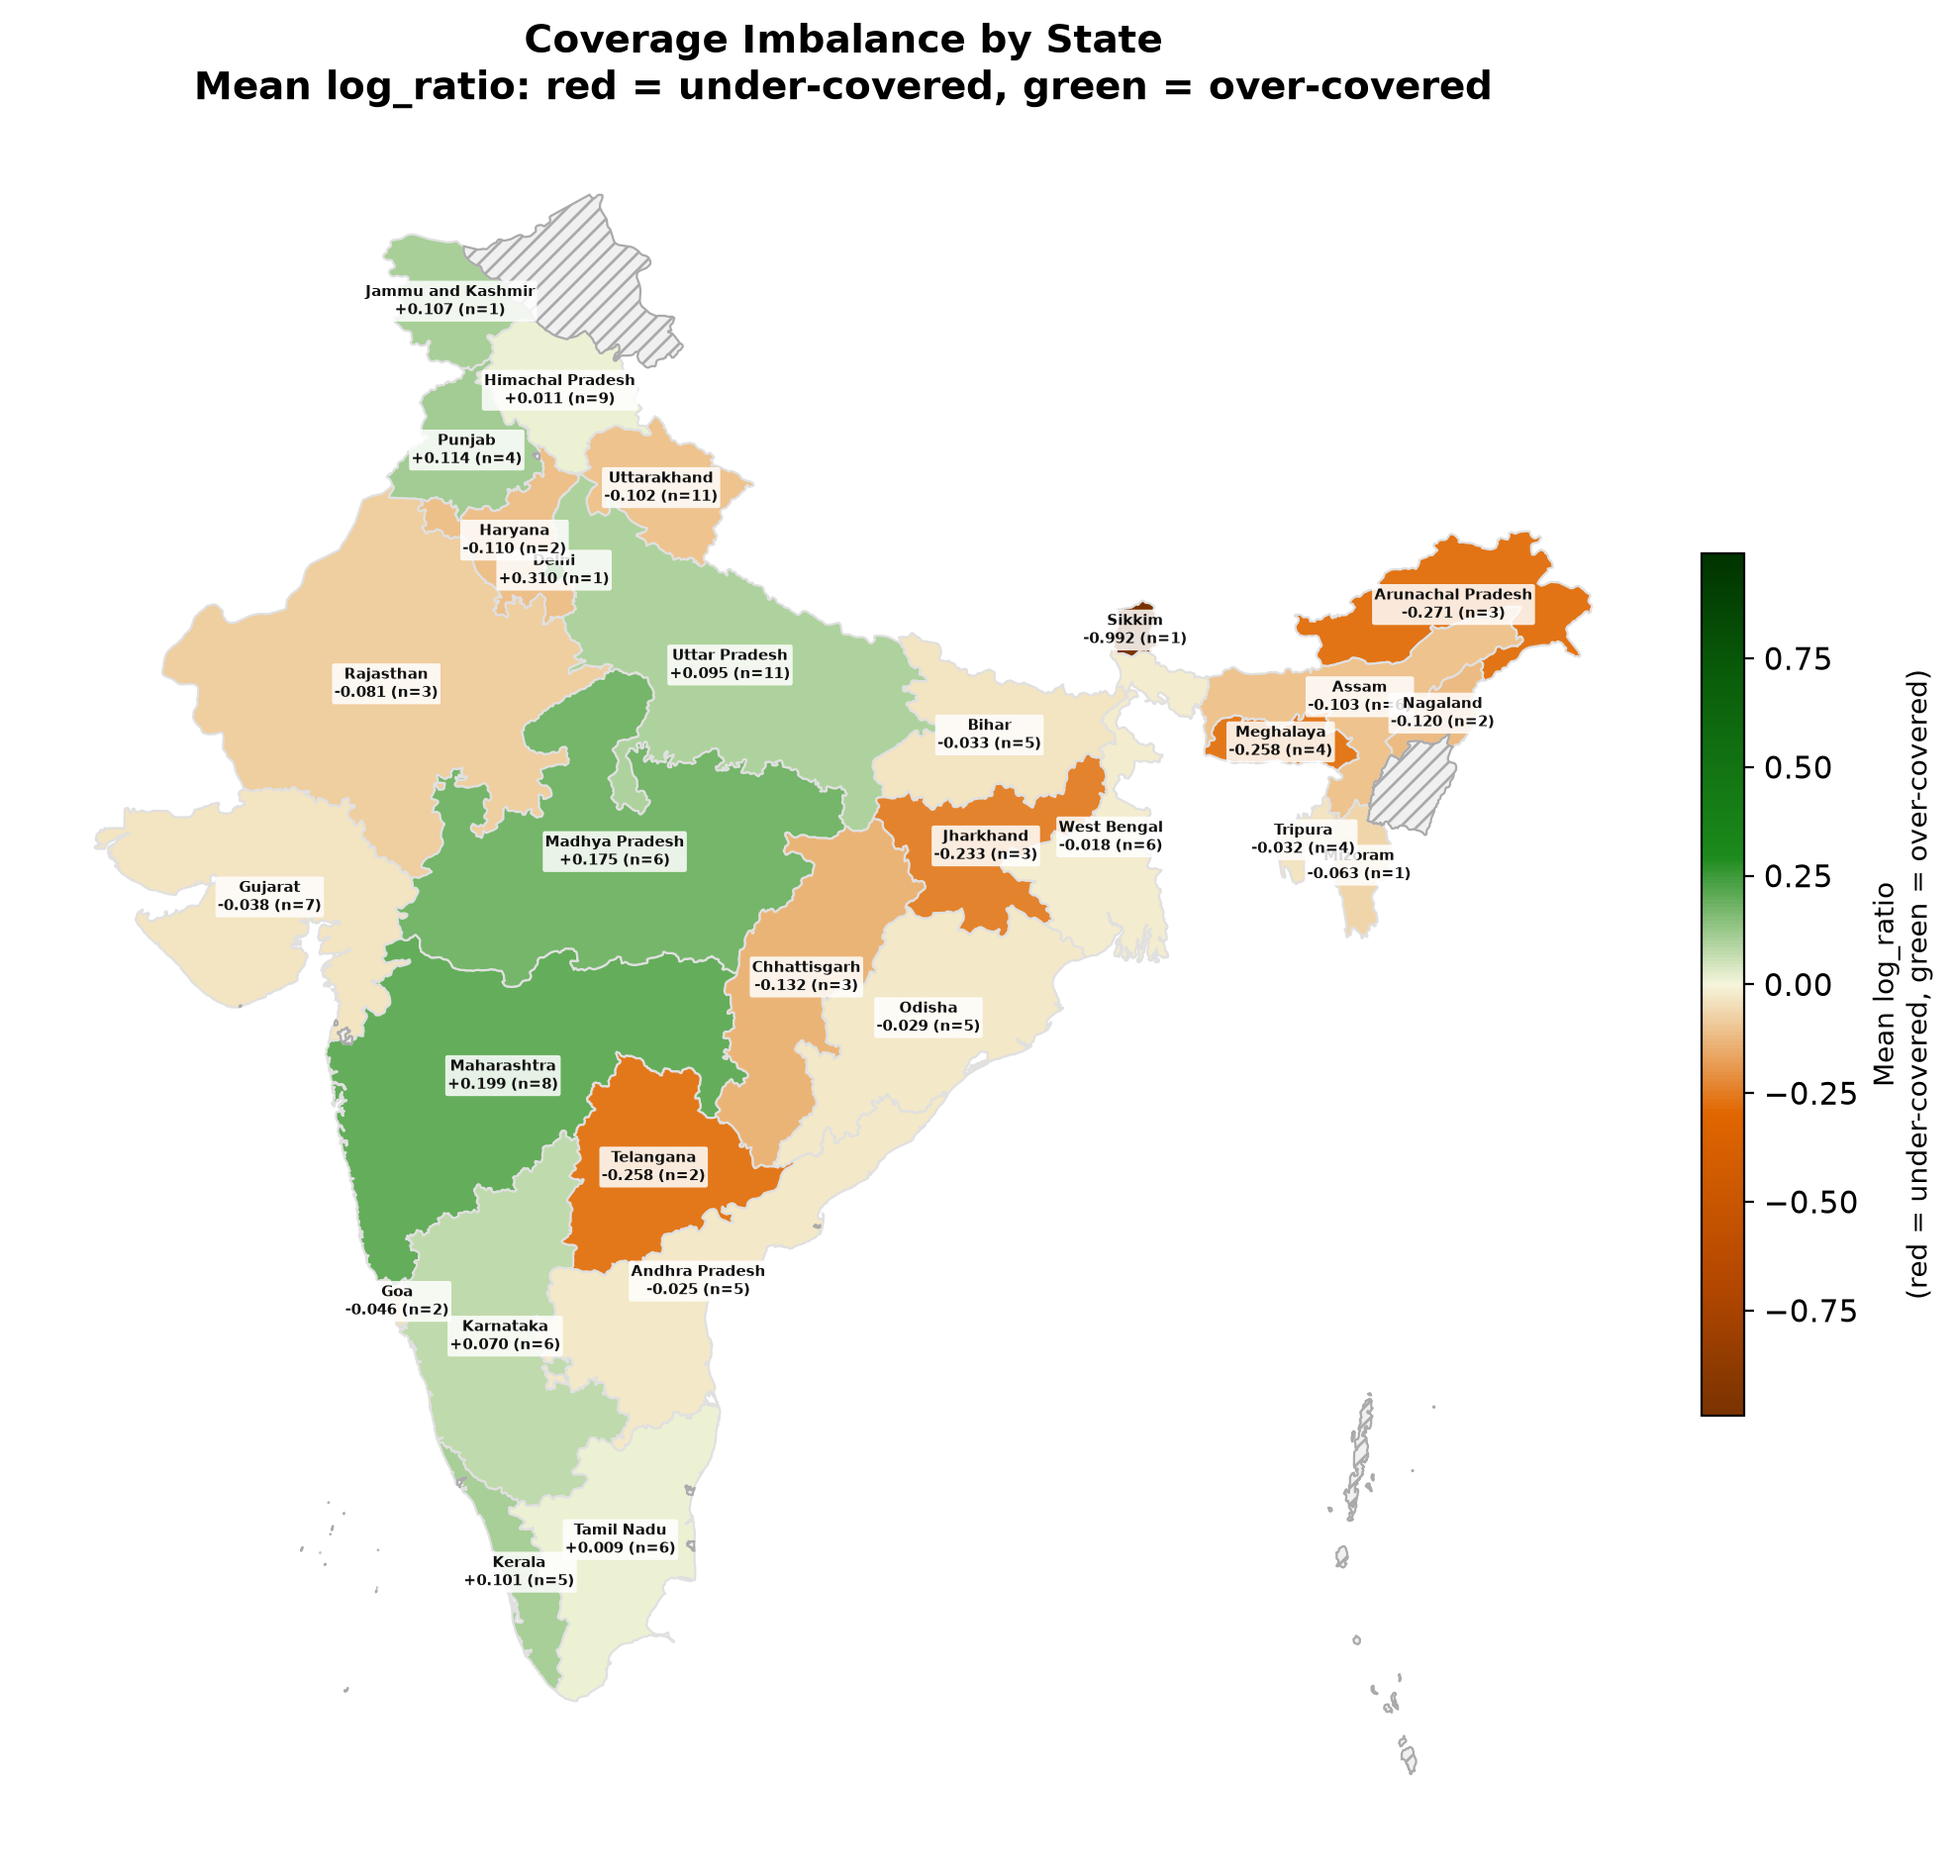
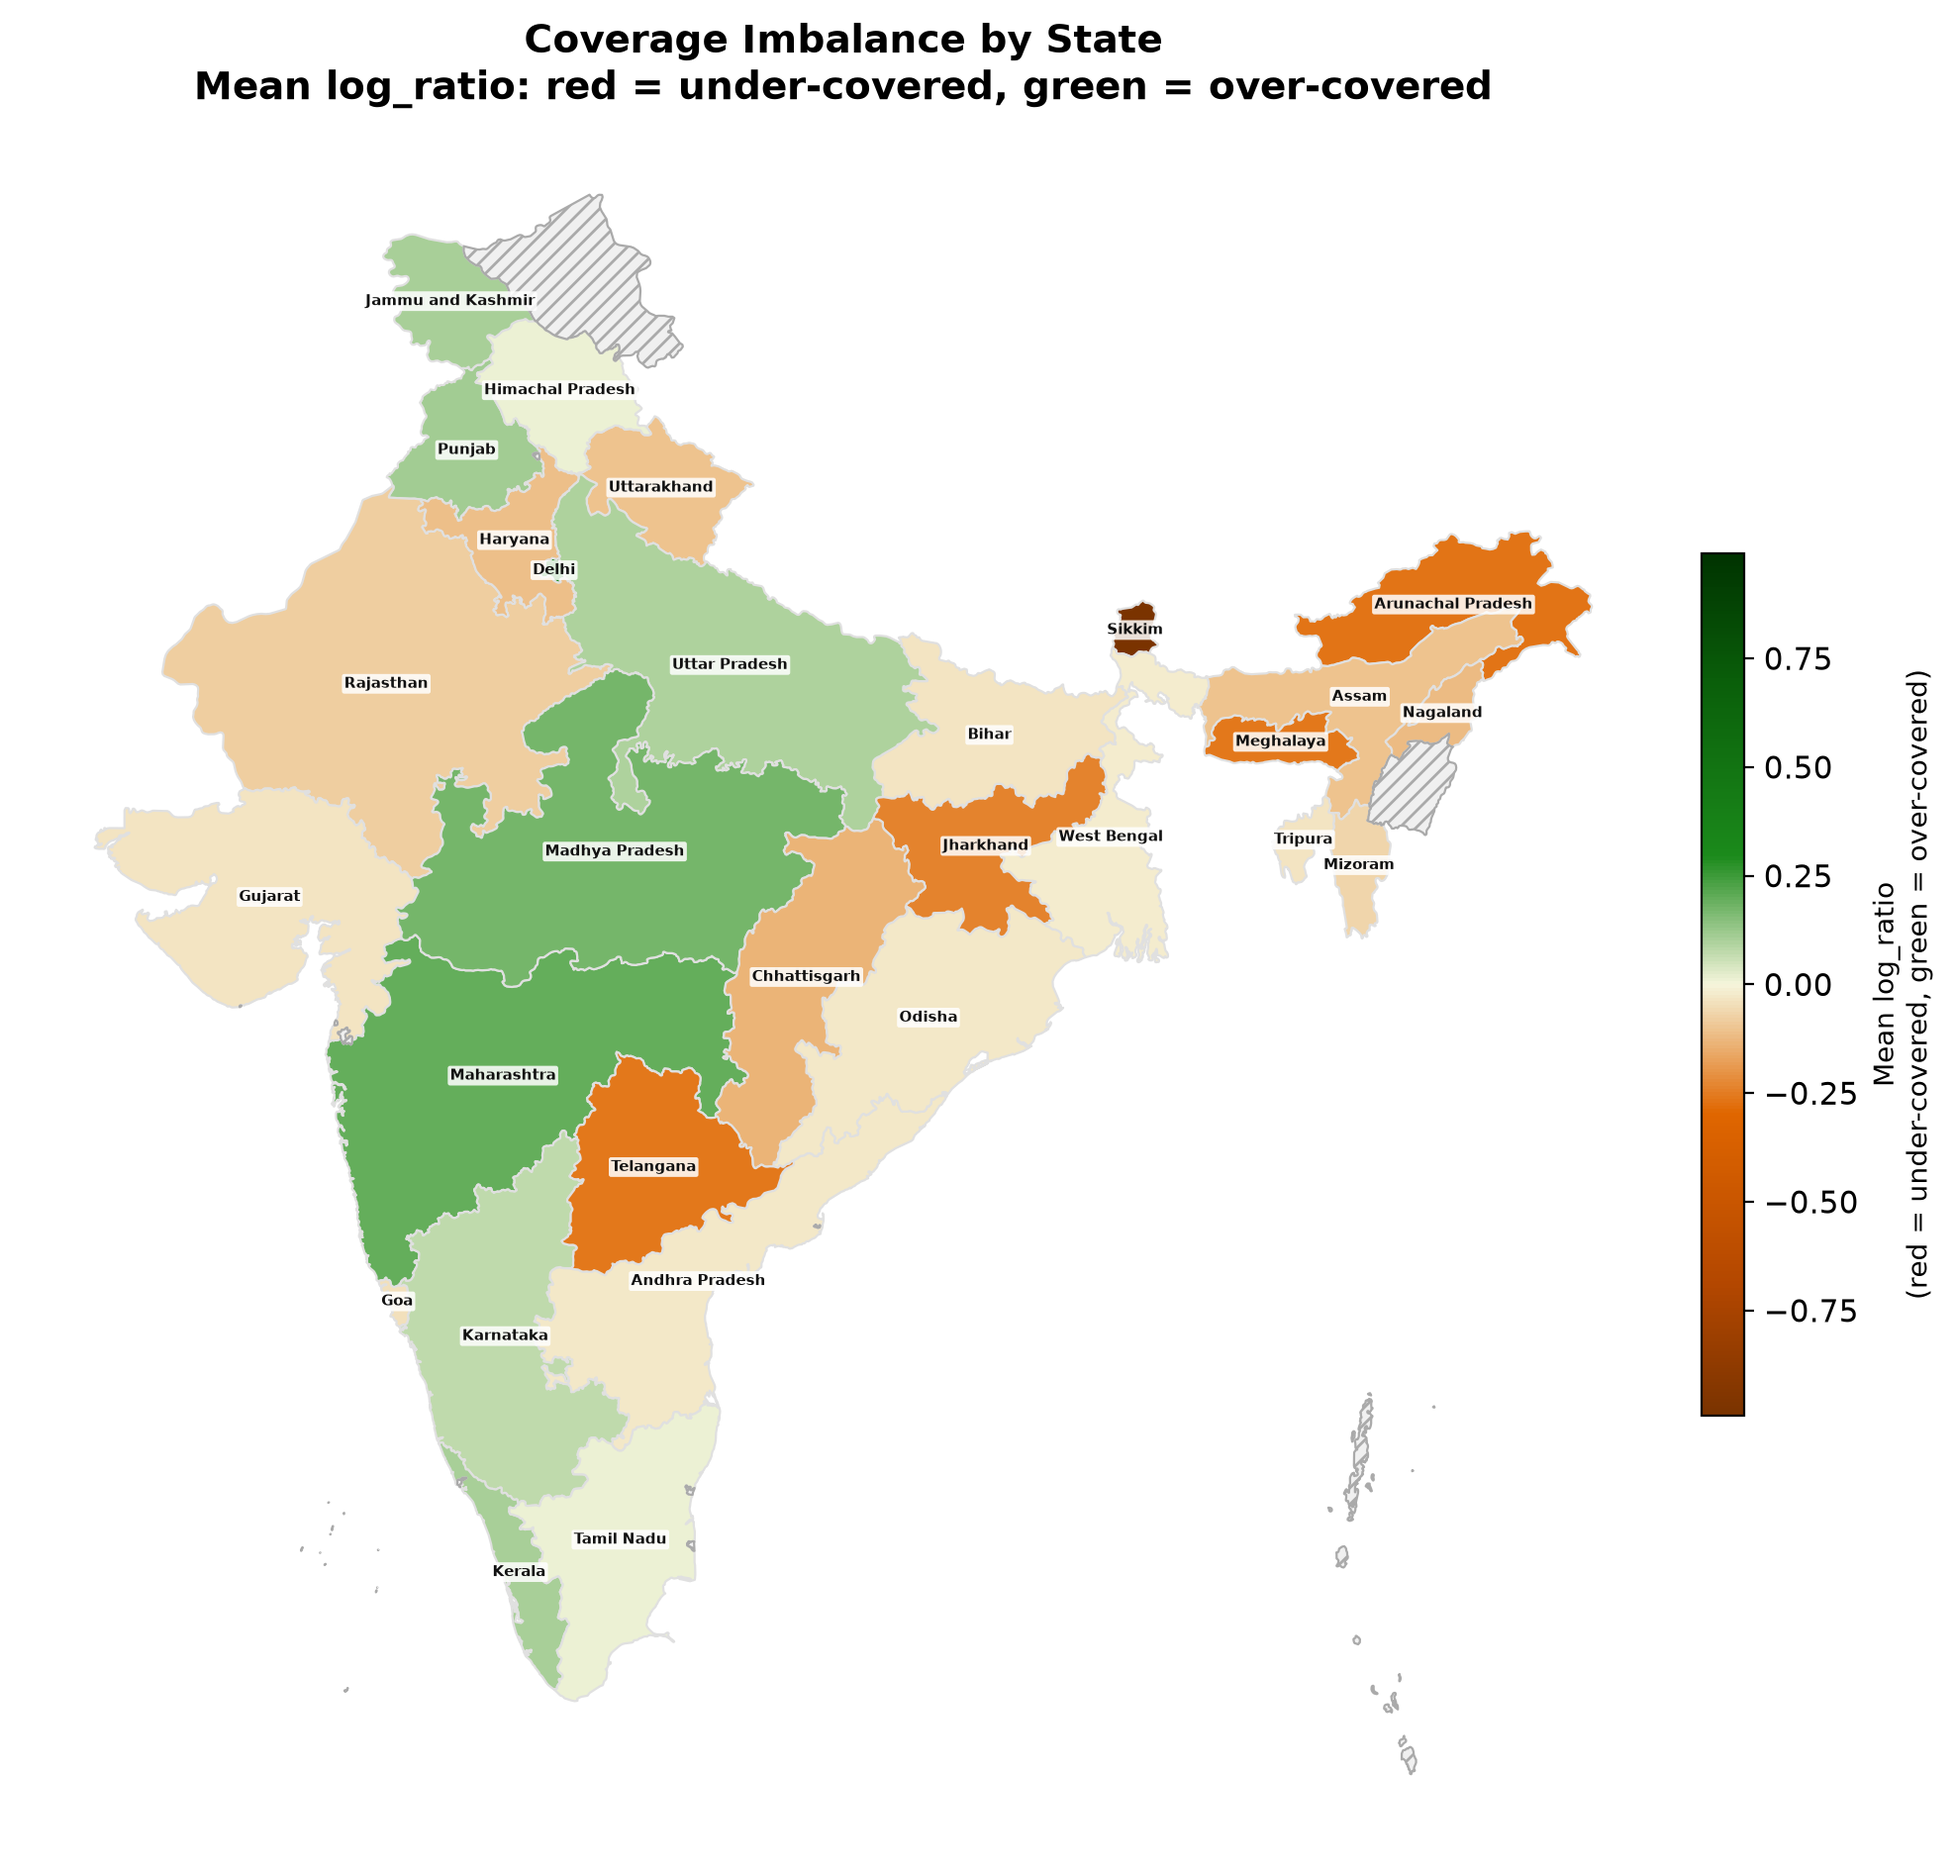
Show state names only on plot9 coverage map labels.
Drop per-state log_ratio and event counts from choropleth annotations for readability.

diff --git a/src/visualize.py b/src/visualize.py
@@ -250,7 +250,7 @@ def plot_coverage_map():
     for _, row in matched.iterrows():
         centroid = row.geometry.centroid
         ax.annotate(
-            f"{row['name']}\n{row['mean_log_ratio']:+.3f} (n={int(row['n_events'])})",
+            row['name'],
             xy=(centroid.x, centroid.y),
             fontsize=5.5, ha='center', va='center',
             fontweight='bold', color='#111',

diff --git a/outputs/pipeline_result.md b/outputs/pipeline_result.md
@@ -1,6 +1,6 @@
 # CVND Pipeline Results — Expected Coverage
 
-Generated: `2026-07-20 14:49:31`
+Generated: `2026-07-20 14:57:09`
 
 ## Analysis standard (hybrid)
 
@@ -75,7 +75,7 @@ scaled components for robustness (`MSS_entropy` column).
 Model:              GLM              AIC:            -234.8026
 Link Function:      Identity         BIC:            -579.9818
 Dependent Variable: MSS              Log-Likelihood: 130.40   
-Date:               2026-07-20 14:49 LL-Null:        69.930   
+Date:               2026-07-20 14:57 LL-Null:        69.930   
 No. Observations:   132              Deviance:       1.0716   
 Df Model:           12               Pearson chi2:   1.07     
 Df Residuals:       119              Scale:          0.0090050
